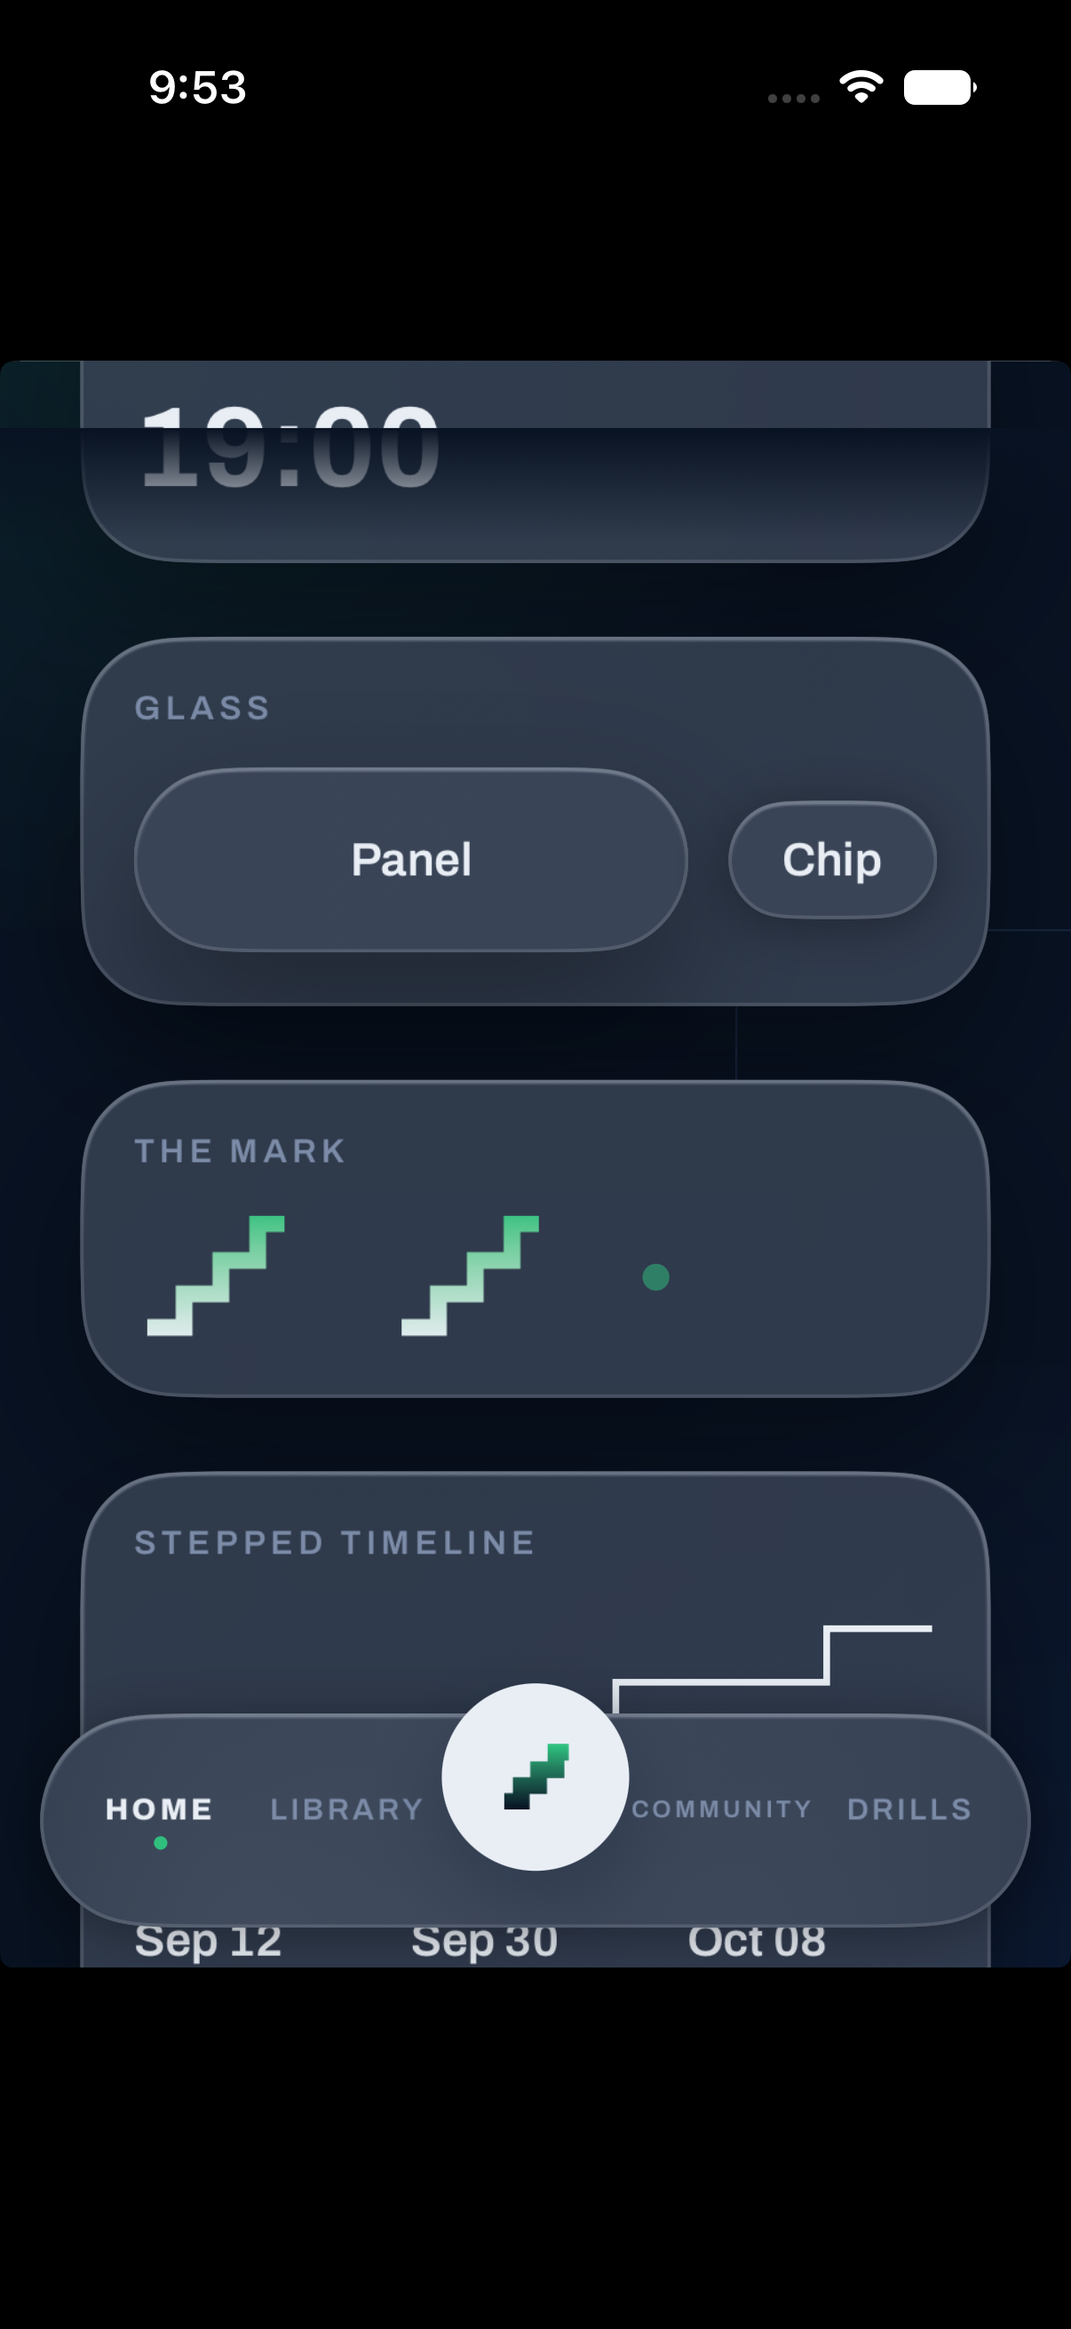
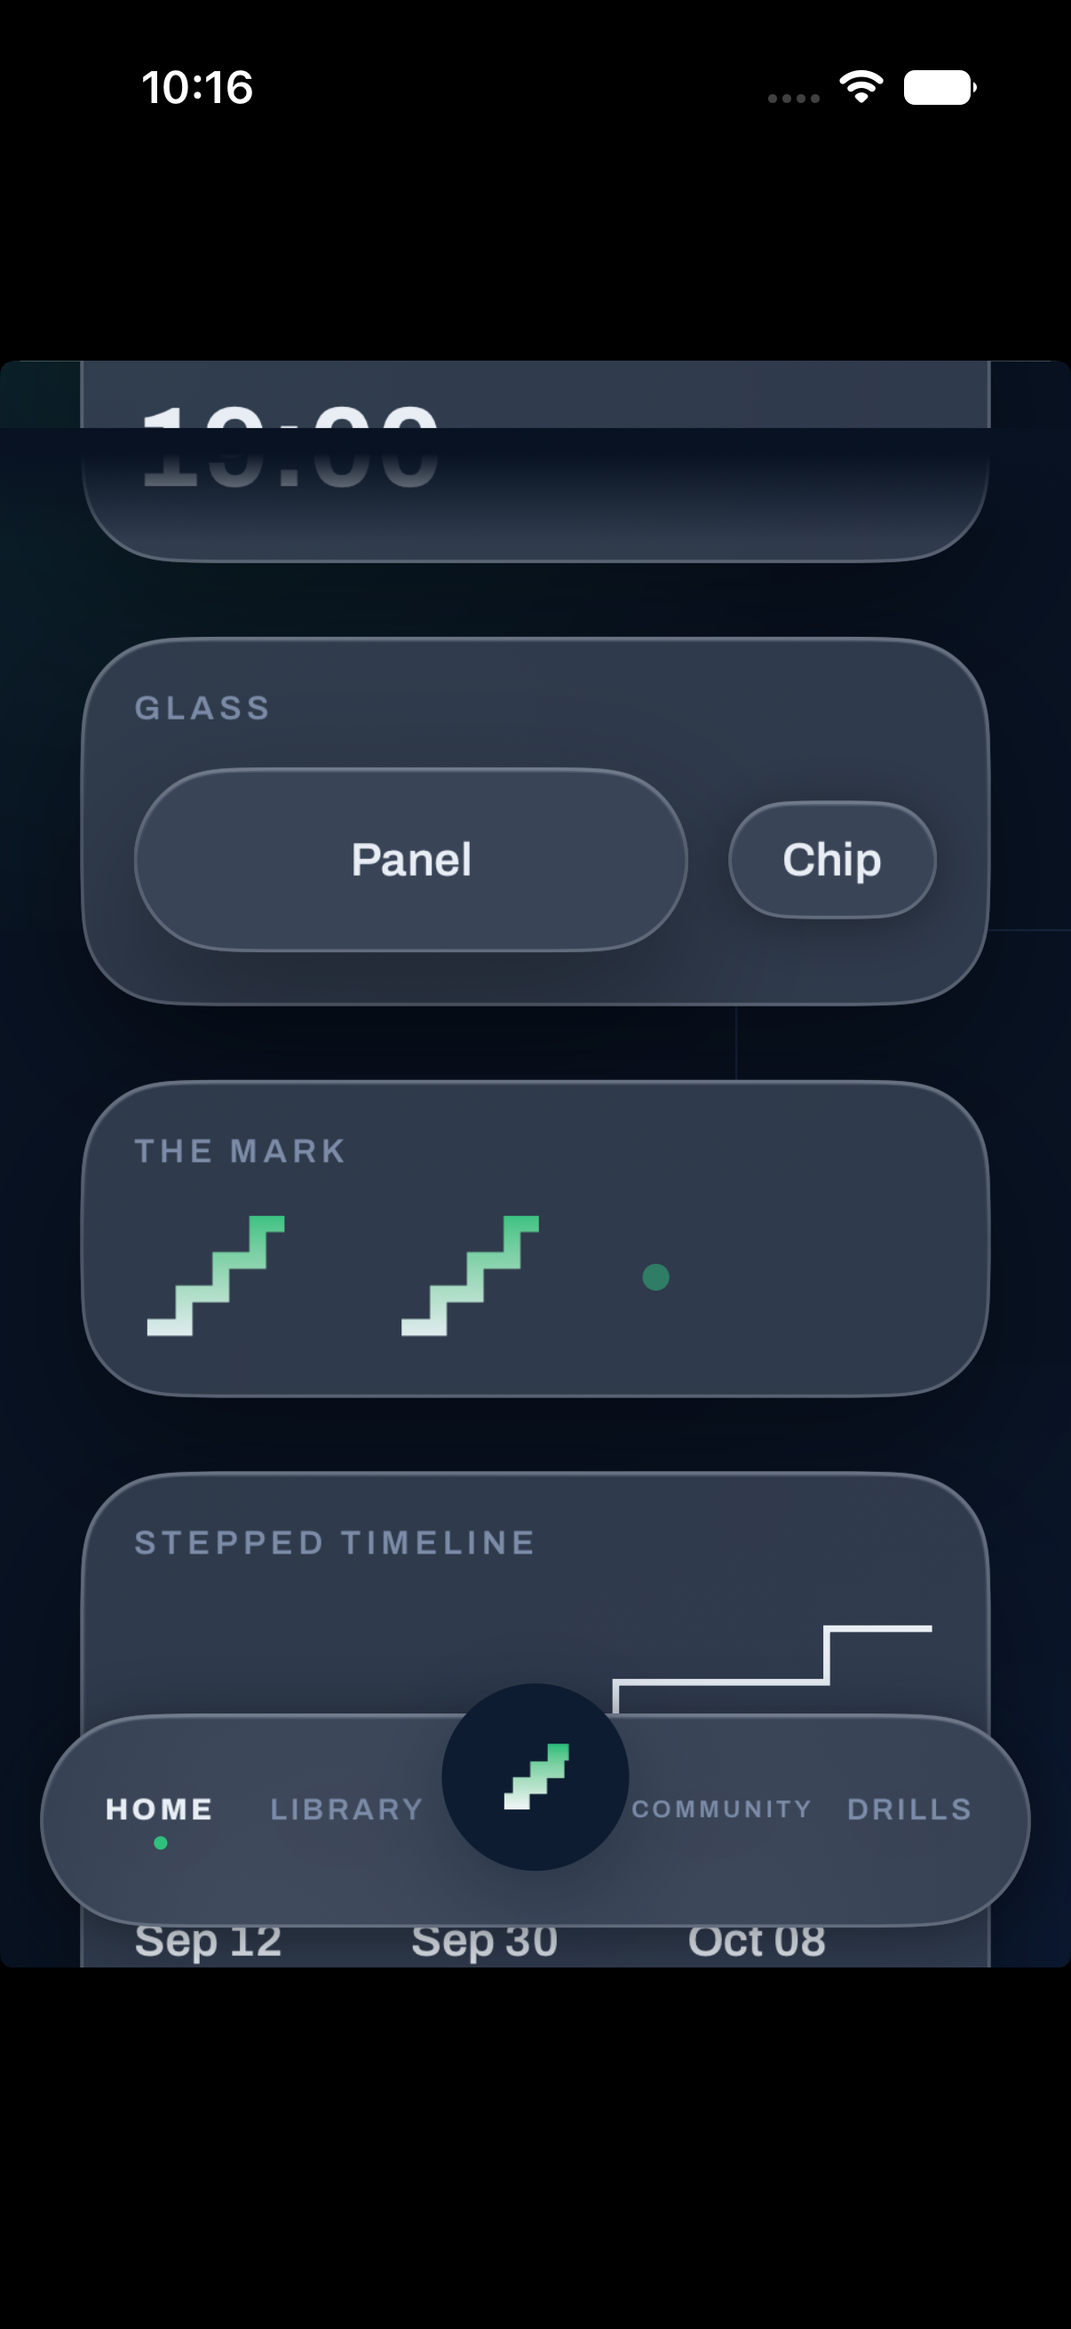
F0 review polish: tab-bar 560 cap + shadow, CASE mark green, header fade, glass bottom highlight
Whole-branch Opus review = APPROVE (0 blocking). Applied the non-blocking fixes
that touch shared primitives the 10 downstream phases import:
- DSTabBar: `maxWidth` param (560 for §7 tablet-centered) + canon floating shadow.
- CASE circle: fixed navy both themes, canvas g22 chalk->#2FC07E mark.
- Header fade: solid-to-22% gradient stops. Glass: bottom inset highlight.
Timeline label hierarchy + flat chip recipe deferred to F2 (documented in report).

iOS suite still 289 green / 0 failures. Screenshots re-captured.

Changed region(s): [[0.3988, 0.7105, 0.5829, 0.8032], [0.1227, 0.1854, 0.4295, 0.2162], [0.1227, 0.0309, 0.2454, 0.0618]]

diff --git a/ios/CaseRoom/DesignSystem/Chrome/TabBar.swift b/ios/CaseRoom/DesignSystem/Chrome/TabBar.swift
@@ -27,6 +27,9 @@ enum DSTab: Hashable, CaseIterable {
 struct DSTabBar: View {
     @Binding var selection: DSTab
     var onSelect: (DSTab) -> Void = { _ in }
+    /// Cap the bar width. nil = full-width phone (left/right 12); pass 560 for the
+    /// §7 tablet ("560px wide, centered") so F2 doesn't have to modify this primitive.
+    var maxWidth: CGFloat? = nil
     @Environment(\.dsPalette) private var palette
 
     var body: some View {
@@ -39,7 +42,11 @@ struct DSTabBar: View {
         }
         .frame(height: 64)
         .padding(.horizontal, 8)
+        .frame(maxWidth: maxWidth ?? .infinity)
         .glassChip()
+        // Floating-bar shadow per canon (0 10px 26px rgba(13,28,49,.14)).
+        .shadow(color: Color.dsShadowInk.opacity(0.14), radius: 13, x: 0, y: 5)
+        .frame(maxWidth: .infinity)   // center the (optionally capped) bar
         .padding(.horizontal, 12)
     }
 
@@ -73,12 +80,14 @@ struct DSTabBar: View {
             onSelect(.caseTab)
         } label: {
             ZStack {
+                // The CASE circle is fixed navy in both themes (canvas hardcodes
+                // #0D1C31); its mark is the canvas g22 gradient chalk→bright-green.
                 Circle()
-                    .fill(palette.ink)
+                    .fill(DSPalette.light.ink)
                     .frame(width: 56, height: 56)
-                    .overlay(active ? Circle().strokeBorder(palette.green, lineWidth: 2) : nil)
+                    .overlay(active ? Circle().strokeBorder(DSPalette.dark.green, lineWidth: 2) : nil)
                     .shadow(color: Color.dsShadowInk.opacity(0.3), radius: 12, x: 0, y: 8)
-                StaircaseMarkView(lowColor: palette.onInk, highColor: palette.green)
+                StaircaseMarkView(lowColor: DSPalette.light.onInk, highColor: DSPalette.dark.green)
                     .frame(width: 23, height: 19)
             }
             .frame(maxWidth: .infinity)

diff --git a/ios/CaseRoom/DesignSystem/Glass.swift b/ios/CaseRoom/DesignSystem/Glass.swift
@@ -37,6 +37,7 @@ struct GlassSurface<S: InsettableShape>: View {
         }
         .overlay(shape.strokeBorder(border, lineWidth: 1))
         .overlay(topInsetHighlight)                               // inset 0 1.5px 0 rgba(255,255,255,.85)
+        .overlay(bottomInsetHighlight)                            // inset 0 -1px 0 rgba(255,255,255,.3)
         .compositingGroup()
         .shadow(color: shadowColor, radius: shadowRadius, x: 0, y: shadowY)
     }
@@ -55,6 +56,15 @@ struct GlassSurface<S: InsettableShape>: View {
             LinearGradient(colors: [.white.opacity(palette.isDark ? 0.12 : 0.85), .clear],
                            startPoint: .top, endPoint: .center),
             lineWidth: 1.5)
+        .blendMode(.plusLighter)
+        .allowsHitTesting(false)
+    }
+
+    private var bottomInsetHighlight: some View {
+        shape.strokeBorder(
+            LinearGradient(colors: [.clear, .white.opacity(palette.isDark ? 0.06 : 0.3)],
+                           startPoint: .center, endPoint: .bottom),
+            lineWidth: 1)
         .blendMode(.plusLighter)
         .allowsHitTesting(false)
     }

diff --git a/ios/CaseRoom/DesignSystem/Chrome/HeaderFade.swift b/ios/CaseRoom/DesignSystem/Chrome/HeaderFade.swift
@@ -17,8 +17,14 @@ private struct DSHeaderFade: ViewModifier {
 
     func body(content: Content) -> some View {
         content.overlay(alignment: .top) {
+            // Canvas: linear-gradient(180deg, page 22%, transparent) — solid for
+            // the first 22%, then fade out.
             LinearGradient(
-                colors: [palette.page, palette.page.opacity(0)],
+                stops: [
+                    .init(color: palette.page, location: 0),
+                    .init(color: palette.page, location: 0.22),
+                    .init(color: palette.page.opacity(0), location: 1),
+                ],
                 startPoint: .top, endPoint: .bottom
             )
             .frame(height: 34)

diff --git a/ios/CaseRoom/DesignSystem/DesignSystemGallery.swift b/ios/CaseRoom/DesignSystem/DesignSystemGallery.swift
@@ -65,7 +65,9 @@ struct DesignSystemGallery: View {
             .defaultScrollAnchor(scrollAnchor)
             .dsHeaderFade()
 
-            DSTabBar(selection: $tab).padding(.bottom, 12)
+            DSTabBar(selection: $tab,
+                     maxWidth: UIDevice.current.userInterfaceIdiom == .pad ? 560 : nil)
+                .padding(.bottom, 12)
         }
         .dsTheme(palette)
         .dsToast(item: $toast)

diff --git a/docs/superpowers/sdd/fe-f0-report.md b/docs/superpowers/sdd/fe-f0-report.md
@@ -1,0 +1,193 @@
+# F0 — Design Foundation · Phase Report
+
+**Status:** DONE · **Branch:** `fe/f0-foundation` · **Head:** `5fde1ac` (base `d106111`)
+**iOS suite:** 273 → **289** green (0 failures) · +16 DesignSystem tests
+**Date:** 2026-07-17
+
+The token + component layer every later front-end phase (F1–F10) imports. New group
+`ios/CaseRoom/DesignSystem/`. All hex literals confined to `Tokens.swift` (reviewers
+grep-enforce this in screen code). Full plan:
+`docs/superpowers/plans/2026-07-17-fe-f0-plan.md`.
+
+---
+
+## JUDGMENT decisions (locked)
+
+1. **Glass hand-built over `.ultraThinMaterial`**, not iOS 26 `.glassEffect()`.
+   Deployment target is iOS 17 and the §1 recipe (135° white gradient .66→.4 +
+   blur+saturate + specific white hairline + top inset highlight) is owner-locked
+   "copy verbatim". Material supplies the backdrop blur; the gradient/border/
+   highlight are layered on. Native glass is system-controlled (can't hit the
+   recipe) and would force `#available(iOS 26)`. Same call for every glass surface.
+2. **Fonts = bundled variable TTFs; weight via `Font.custom(family:).weight(_:)`.**
+   Google publishes only variable Archivo / Source Serif 4 (no static weights);
+   `fonttools` unavailable. A CoreText probe confirmed family + weight-trait
+   resolves to the correct named instance (400→Regular, 600→SemiBold, 800→
+   ExtraBold) and family + slant → the true italic face, handling the fonts'
+   inconsistent PostScript naming automatically. Registered via `UIAppFonts` in
+   `info.properties` (per brief — never `INFOPLIST_KEY_*`) + a defensive idempotent
+   `DSFonts.register()`.
+3. **Dark palette = per-screen takeover theme via `\.dsPalette`**, NOT iOS dark
+   mode. App stays light; session screens (F5/F6) opt in with `.dsTheme(.dark)`.
+
+## Environment note (bootstrap blocker → resolved, no code change)
+
+The existing suite HANGS on a fresh simulator at
+`SessionViewModelTests.testEnteringLiveStartsLiveActivityForInterviewer` — that
+test uses the real `RoomRecorder()`, whose
+`AVAudioApplication.requestRecordPermission()` blocks in a host-less test with no
+prompt UI. **Fix:** grant mic on the sim before testing —
+`xcrun simctl privacy <sim> grant microphone study.mycase` (+ `…CaseRoomTests`
++ `com.apple.dt.xctest.tool`). Then it passes in ~5.6s. **All test runs pin
+`-destination id=A10D5A1D…` (iPhone 17, iOS 27 runtime) with mic granted.** Later
+phase leads must do the same grant, or the baseline appears to hang.
+
+---
+
+## Interfaces — PINNED for F1–F10 (names + signatures are stable)
+
+### Tokens — `DesignSystem/Tokens.swift`
+- `struct DSPalette: Equatable` fields: `page, ink, onInk, muted, faint, hairline,
+  hairlineSoft, surface, green, link: Color`, `isDark: Bool`.
+- `static let DSPalette.light` / `static let DSPalette.dark` (§1 hex, dark-takeover).
+- `Color(hex: UInt32, alpha: Double = 1)` — token-layer only.
+- `static let Color.dsShadowInk` — theme-independent navy for shadows/scrims.
+- `EnvironmentValues.dsPalette` (default `.light`); `View.dsTheme(_ palette: DSPalette)`.
+  Screens read `@Environment(\.dsPalette) var palette` and use `palette.ink` etc.
+  **NO hex literals allowed outside `Tokens.swift`.**
+
+### Typography — `DesignSystem/Typography.swift`
+- `DSFonts.register()` (idempotent); `DSFonts.weight(_ w: CGFloat) -> Font.Weight`.
+- `Font.archivo(_ size: CGFloat, weight: CGFloat = 400) -> Font`
+- `Font.serifVoice(_ size: CGFloat, weight: CGFloat = 400, italic: Bool = false) -> Font`
+- `struct DSTextStyle { font: Font; tracking: CGFloat; lineSpacing: CGFloat }` statics:
+  `.h1Tab` (28/800/-0.84), `.takeoverDisplay` (32/800/-1.12), `.cardTitle` (20/700),
+  `.rowTitle` (14/600), `.rowTitleStrong` (14.5/700), `.kicker` (10/600/+1.6 caps),
+  `.meta` (11.5/400), `.timerLarge` (34/700); `DSTextStyle.serif(_ size:, italic:, weight:)`.
+- `View.dsText(_ style: DSTextStyle)` (font+tracking+lineSpacing); `View.tabularNumbers()`.
+
+### Glass — `DesignSystem/Glass.swift`
+- `View.glassPanel(cornerRadius: CGFloat = 28)`, `View.glassChip()` (capsule),
+  `View.glassSheet(cornerRadius: CGFloat = 32)`.
+- `struct GlassSurface<S: InsettableShape>: View` (`shape`, `kind: GlassKind`) — engine.
+- `enum GlassKind { case panel, chip, sheet }`.
+- `struct DSScrim: View` (rgba ink .34 + blur; solid-ish under Reduce Transparency).
+- `AnyTransition.dsRise` (pair with `DSMotion.sheetCurve`).
+- Honors `\.accessibilityReduceTransparency` → solid `palette.surface` (body.solid analog).
+  Dark recipe auto-selected when `palette.isDark`.
+
+### Motion — `DesignSystem/Motion.swift`
+- `enum DSMotion`: `riseCurve` (.42s cubic 0.22,1,0.36,1), `sheetCurve` (.32s),
+  `hoverCurve` (.16s), `drawCurve` (.9s), `stagger` (0.13), `pressScale` (0.96),
+  `blink` (1.1s repeat).
+- `struct DSPressStyle: ButtonStyle` (scale .96, no bounce).
+- `struct BlinkDot: View` (`diameter: CGFloat = 6`, green pulse 1→.2).
+
+### Marks — `DesignSystem/StaircaseMark.swift`, `SteppedTimeline.swift`
+- `struct StaircaseMark: Shape` (path M4 35 H15 V25 H26 V15 H37 V4 H45, viewBox 48×40).
+- `struct StaircaseMarkView: View` (`lineWidth: CGFloat = 5`, `animated: Bool = false`,
+  `lowColor: Color? = nil`, `highColor: Color? = nil`; ink→green gradient, trim draw).
+- `struct StepPath: Shape` (M2 58 H96 V42 H192 V24 H276 V8 H318, viewBox 320×64, non-scaling).
+- `struct SteppedTimeline: View` (`firms: [TimelineFirm]`; ink 2px line + green TODAY dot
+  + 3-col firm labels, green readiness only when `onPace`).
+- `struct TimelineFirm: Identifiable` (`name, date, days, readiness: String`, `onPace: Bool`).
+
+### Score cell — `DesignSystem/ScoreCells.swift` (§6 shared component)
+- `struct ScoreCells: View` (`count: Int`, `value: Int`, `size: ScoreCellSize = .medium`,
+  `interactive: Bool = false`, `onSelect: ((Int) -> Void)? = nil`) — cells 1…N filled
+  green up to `value`, tabular.
+- `enum ScoreCellSize { case large, medium, small }` — 46 / 24 / 16 pt (recap 1–5 pills /
+  rubric 24pt / live 16pt). Used by F5 debrief, F6 rubric, F5 recap 1–5.
+
+### Chrome — `DesignSystem/Chrome/`
+- `struct WordmarkChip: View` (mark + serif-italic "my" + Archivo-800 "Case", glass chip).
+- `struct AvatarPill: View` (`initials: String`; 40pt glass over 28pt ink circle).
+- `struct BackPill: View` (`label: String`, `context: String? = nil`).
+- `enum DSTab: Hashable, CaseIterable { case home, library, caseTab, community, drills }`
+  with `.label` → HOME/LIBRARY/CASE/COMMUNITY/DRILLS. (F1's tab identity; distinct from
+  F1's `AppRoute`.)
+- `struct DSTabBar: View` (`selection: Binding<DSTab>`, `onSelect: (DSTab) -> Void = {_ in}`)
+  — 5-slot floating glass capsule; raised 56pt ink CASE circle (mark chalk→green, offset
+  -13); active = ink weight-800, HOME-active +4px green dot, CASE-active +2px green ring;
+  inactive muted.
+- `struct DSToast: View` (`text: String`); `View.dsToast(item: Binding<String?>)`
+  (rises above tab bar, auto-dismiss ~2.4s).
+- `View.dsHeaderFade()` (34px page→clear top fade for scroll containers).
+- `struct DSBackground: View` (page + green/cobalt tint blobs + giant faint staircase,
+  layout stays screen-bound).
+
+### Fixtures — `DesignSystem/PreviewFixtures.swift` (Previews/UI-tests ONLY)
+- `enum PreviewFixtures { static let phone: PreviewDay; static let tablet: PreviewDay }`
+  — Decisions §3 (phone, Jul 16) / §7 (tablet, Jul 17) verbatim.
+- `struct PreviewDay` → `profile, diagnostic, tonight, recommendation, recap, pending,
+  timeline: [TimelineFirm], standing`. Sub-structs: `PreviewProfile, PreviewDiagnostic,
+  PreviewSession, PreviewRecommendation, PreviewRecap, PreviewPending, PreviewCohortStanding`.
+
+### Debug — `DesignSystem/DesignSystemGallery.swift` (`#if DEBUG`)
+- `struct DesignSystemGallery: View` — every component, both themes. Launch args:
+  `-DSGallery` (via CaseRoomApp DEBUG hatch), `-DSGalleryDark`, `-DSGalleryMid`,
+  `-DSGalleryBottom` (scroll anchor for screenshots). Does NOT alter normal launch/nav.
+
+### Project wiring
+- `ios/project.yml`: `UIAppFonts` (3 TTFs) in `CaseRoom.info.properties`; Fonts folder
+  added as resources to `CaseRoomTests` (host-less test font loading). Regenerate with
+  `xcodegen generate` (idempotent, verified); `.xcodeproj` stays gitignored (repo
+  convention — `project.yml` committed instead).
+- `CaseRoomApp.swift`: `DSFonts.register()` in init + DEBUG `-DSGallery` hatch. Existing
+  deep links / widgets / App Intents / APNs / App Group untouched.
+
+---
+
+## Screenshot verdict
+`.superpowers/sdd/f0/shots/` — iPhone 17 (light/dark × top/mid/bottom) + iPad Pro 11
+(light × top/mid/bottom + dark). Verified against canvas: Archivo + Source Serif 4 render
+(not SF fallback); palette exact; glass frosted panels/chips with hairline; wordmark chip;
+40pt AO avatar pill; 5-slot tab bar w/ raised ink CASE circle + green→chalk staircase mark,
+HOME active + green dot; ink→green mark gradient + blink dot; stepped timeline w/ firm labels
+(McKinsey ON PACE green only); score cells at all 3 sizes filled-to-N green; dark takeover
+(#081222) inverts correctly.
+
+## Assumptions / deviations
+- `.xcodeproj` gitignored (repo convention); `project.yml` + generated `Info.plist` committed.
+- Tablet screenshots are **portrait** — landscape rotate is blocked by macOS accessibility
+  TCC (osascript keystroke denied) on this box. F0's gallery is an orientation-agnostic
+  vertical component showcase; true tablet landscape two-column layouts begin in F2. Portrait
+  iPad shots prove iPad-scale rendering. Non-material for F0.
+- Dark palette `link` = same cobalt `#2E56C0` as light (Decisions dark list omits a link
+  color; sessions rarely link).
+- Giant-faint-staircase ghost uses `hairline` (#C9D2DF); canvas allows #C9D2DF/#B7C3D4.
+
+## Whole-branch Opus review — VERDICT: APPROVE (0 blocking)
+
+Reviewer confirmed: tokens exact + test-locked; mark/timeline geometry provably
+correct; fonts genuinely render as Archivo + Source Serif 4 (not SF); dark takeover
+token-driven; every §5 hard rule passes; no-hex enforceable; iOS mechanics clean
+(UIAppFonts via info.properties, deep links/widgets/APNs untouched, DEBUG hatch inert
+on normal launch). No blocking defects.
+
+**Non-blocking findings — FIXED this phase (shared primitives 10 phases import):**
+- Tab bar: added `maxWidth: CGFloat? = nil` (pass 560 for §7 tablet-centered — F2 no
+  longer edits F0; gallery passes 560 on iPad, verified in tablet shots) + the canon
+  floating-bar shadow (0 10px 26px .14).
+- CASE circle: now fixed navy in both themes with the canvas g22 chalk→bright-green
+  (#2FC07E) mark (was `palette.green` #1B9A5F).
+- Header fade: solid-to-22%-then-transparent (matches the canvas gradient stops).
+- Glass: added the bottom inset highlight (`inset 0 -1px 0 rgba(255,255,255,.3)`).
+- Full suite re-verified green (289/0) after fixes; affected shots re-captured.
+
+**Non-blocking findings — DEFERRED (per reviewer's own scoping) + documented:**
+- **Timeline label hierarchy** — DC pixel truth makes "58d" the 14/700 hero and firm·date
+  a 9px kicker; F0 followed the §1 *prose* (firm·date hero / days / readiness). Reviewer
+  scoped to "when the timeline lands on real Home/Timeline screens in F2."
+  **F2 action:** invert `SteppedTimeline` label hierarchy to pixel truth + change fixture
+  day format "58 days" → "58d".
+- **Chip glass recipe** — F0 uses the panel gradient for all light glass; canon's flat
+  `rgba(255,255,255,.55)` blur-12 key/chip variant is a deliberate F0 simplification
+  (reviewer "fine for F0"). Revisit if a screen needs the flatter key look.
+- **Gallery uses phone fixtures on iPad** — the §7 tablet fixture is correct + tested but
+  not screenshot-rendered (device-agnostic showcase). Non-material.
+- Sub-pixel: timeline TODAY-dot radius/x + the "TODAY" text label — F2 timeline polish.
+
+## Concerns / escalations
+None. F0 is a solid foundation; all downstream-relevant fidelity gaps are either fixed
+or captured above as explicit F2 actions.

diff --git a/.superpowers/sdd/f0/progress.md b/.superpowers/sdd/f0/progress.md
@@ -19,15 +19,20 @@ Updated: 2026-07-17 · Branch: fe/f0-foundation · Base SHA: d106111
   `perl -e 'alarm shift @ARGV; exec @ARGV' <secs> xcodebuild …`.
 
 ## Now
-Implementing DesignSystem directly (Opus lead) + Opus review-subagent gates —
-see report for the orchestration-adaptation rationale.
+DONE. Review APPROVE (0 blocking); non-blocking fidelity fixes applied + re-verified
+289/0 green + re-shot. Report final. Ready for orchestrator merge into feature/backend-gap.
 
 ## Done
 - Plan written + self-reviewed: docs/superpowers/plans/2026-07-17-fe-f0-plan.md
 - Fonts downloaded (Archivo + Source Serif 4 variable TTFs + OFL) — CoreText
   probe confirmed family+weight-trait resolves correct named instances.
-- Source files written: Tokens, Typography, Motion, StaircaseMark,
-  SteppedTimeline, ScoreCells, Glass, Chrome/*, PreviewFixtures, Gallery.
+- All 16 DesignSystem source files + 6 test files written.
+- iOS suite 273 -> 289 green (0 failures) — evidence: full.log TEST SUCCEEDED.
+- No-hex grep gate: CLEAN (all Color(hex:) only in Tokens.swift).
+- xcodegen idempotent; project.yml + Info.plist committed; .xcodeproj ignored.
+- 10 gallery screenshots (phone+tablet, light+dark) under shots/ — verified.
+- Committed: 5fde1ac. Report: docs/superpowers/sdd/fe-f0-report.md.
+- Opus whole-branch reviewer dispatched (read-only).
 
 ## Assumptions
 - `.xcodeproj` stays gitignored (repo convention); commit `project.yml` only.
